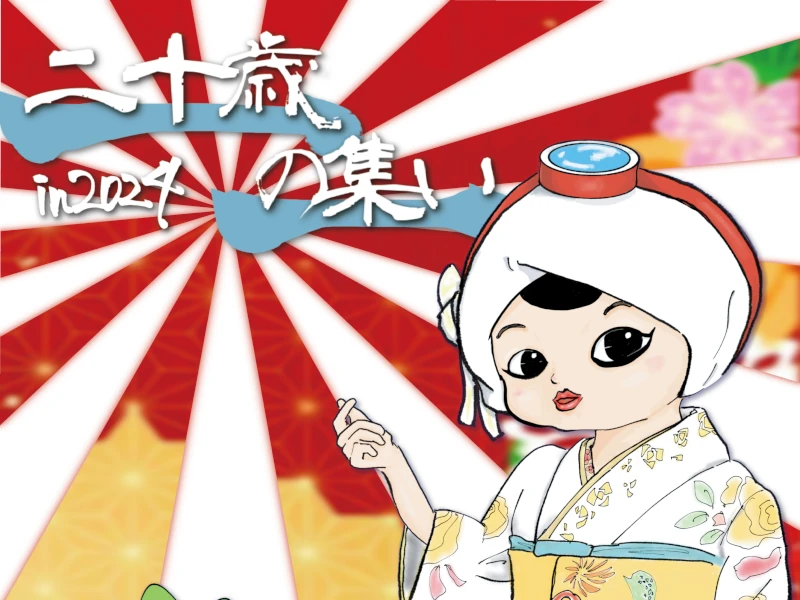
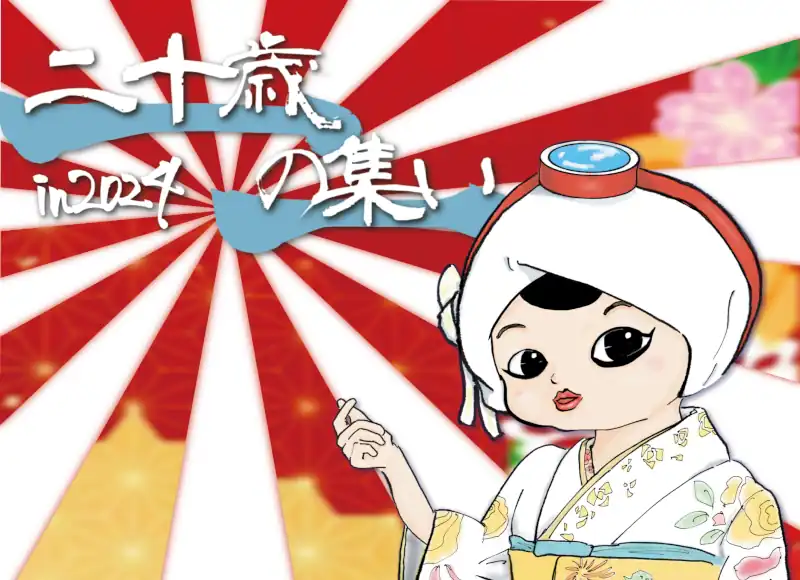
Change: 画像サイズや圧縮率

diff --git a/src/components/MetaTags.svelte b/src/components/MetaTags.svelte
@@ -20,7 +20,7 @@
         {
           url: `${PUBLIC_SITE_URL}/ogp.webp`,
           width: 800,
-          height: 600,
+          height: 580,
           alt: 'OGP'
         }
       ],
